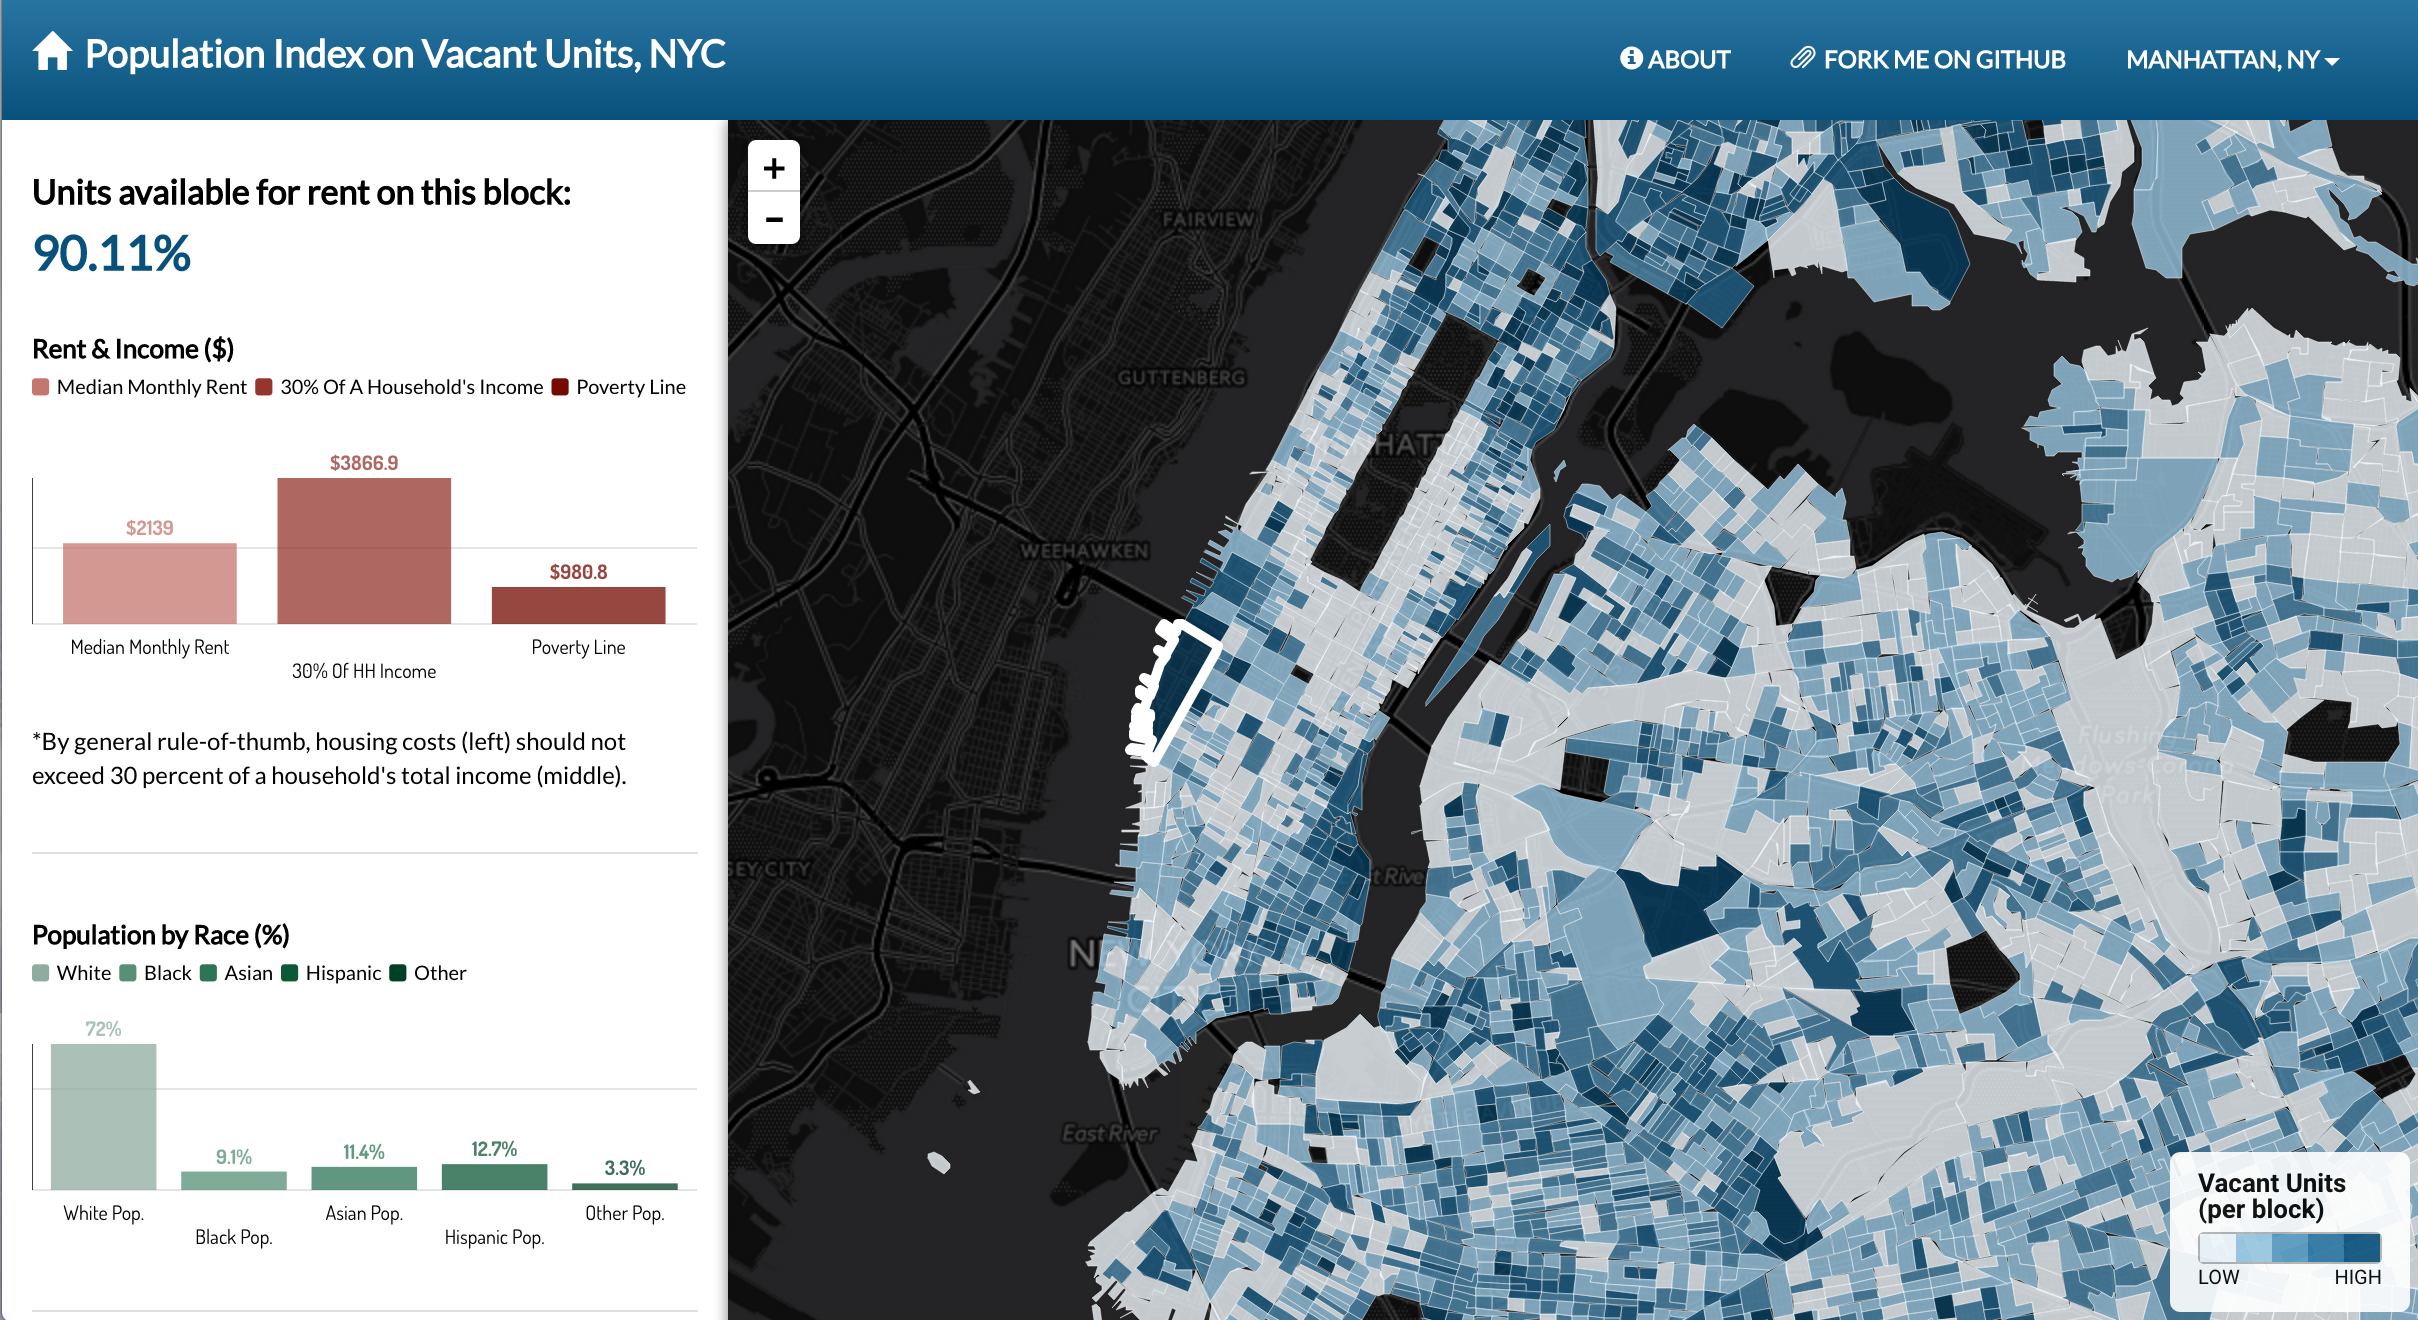
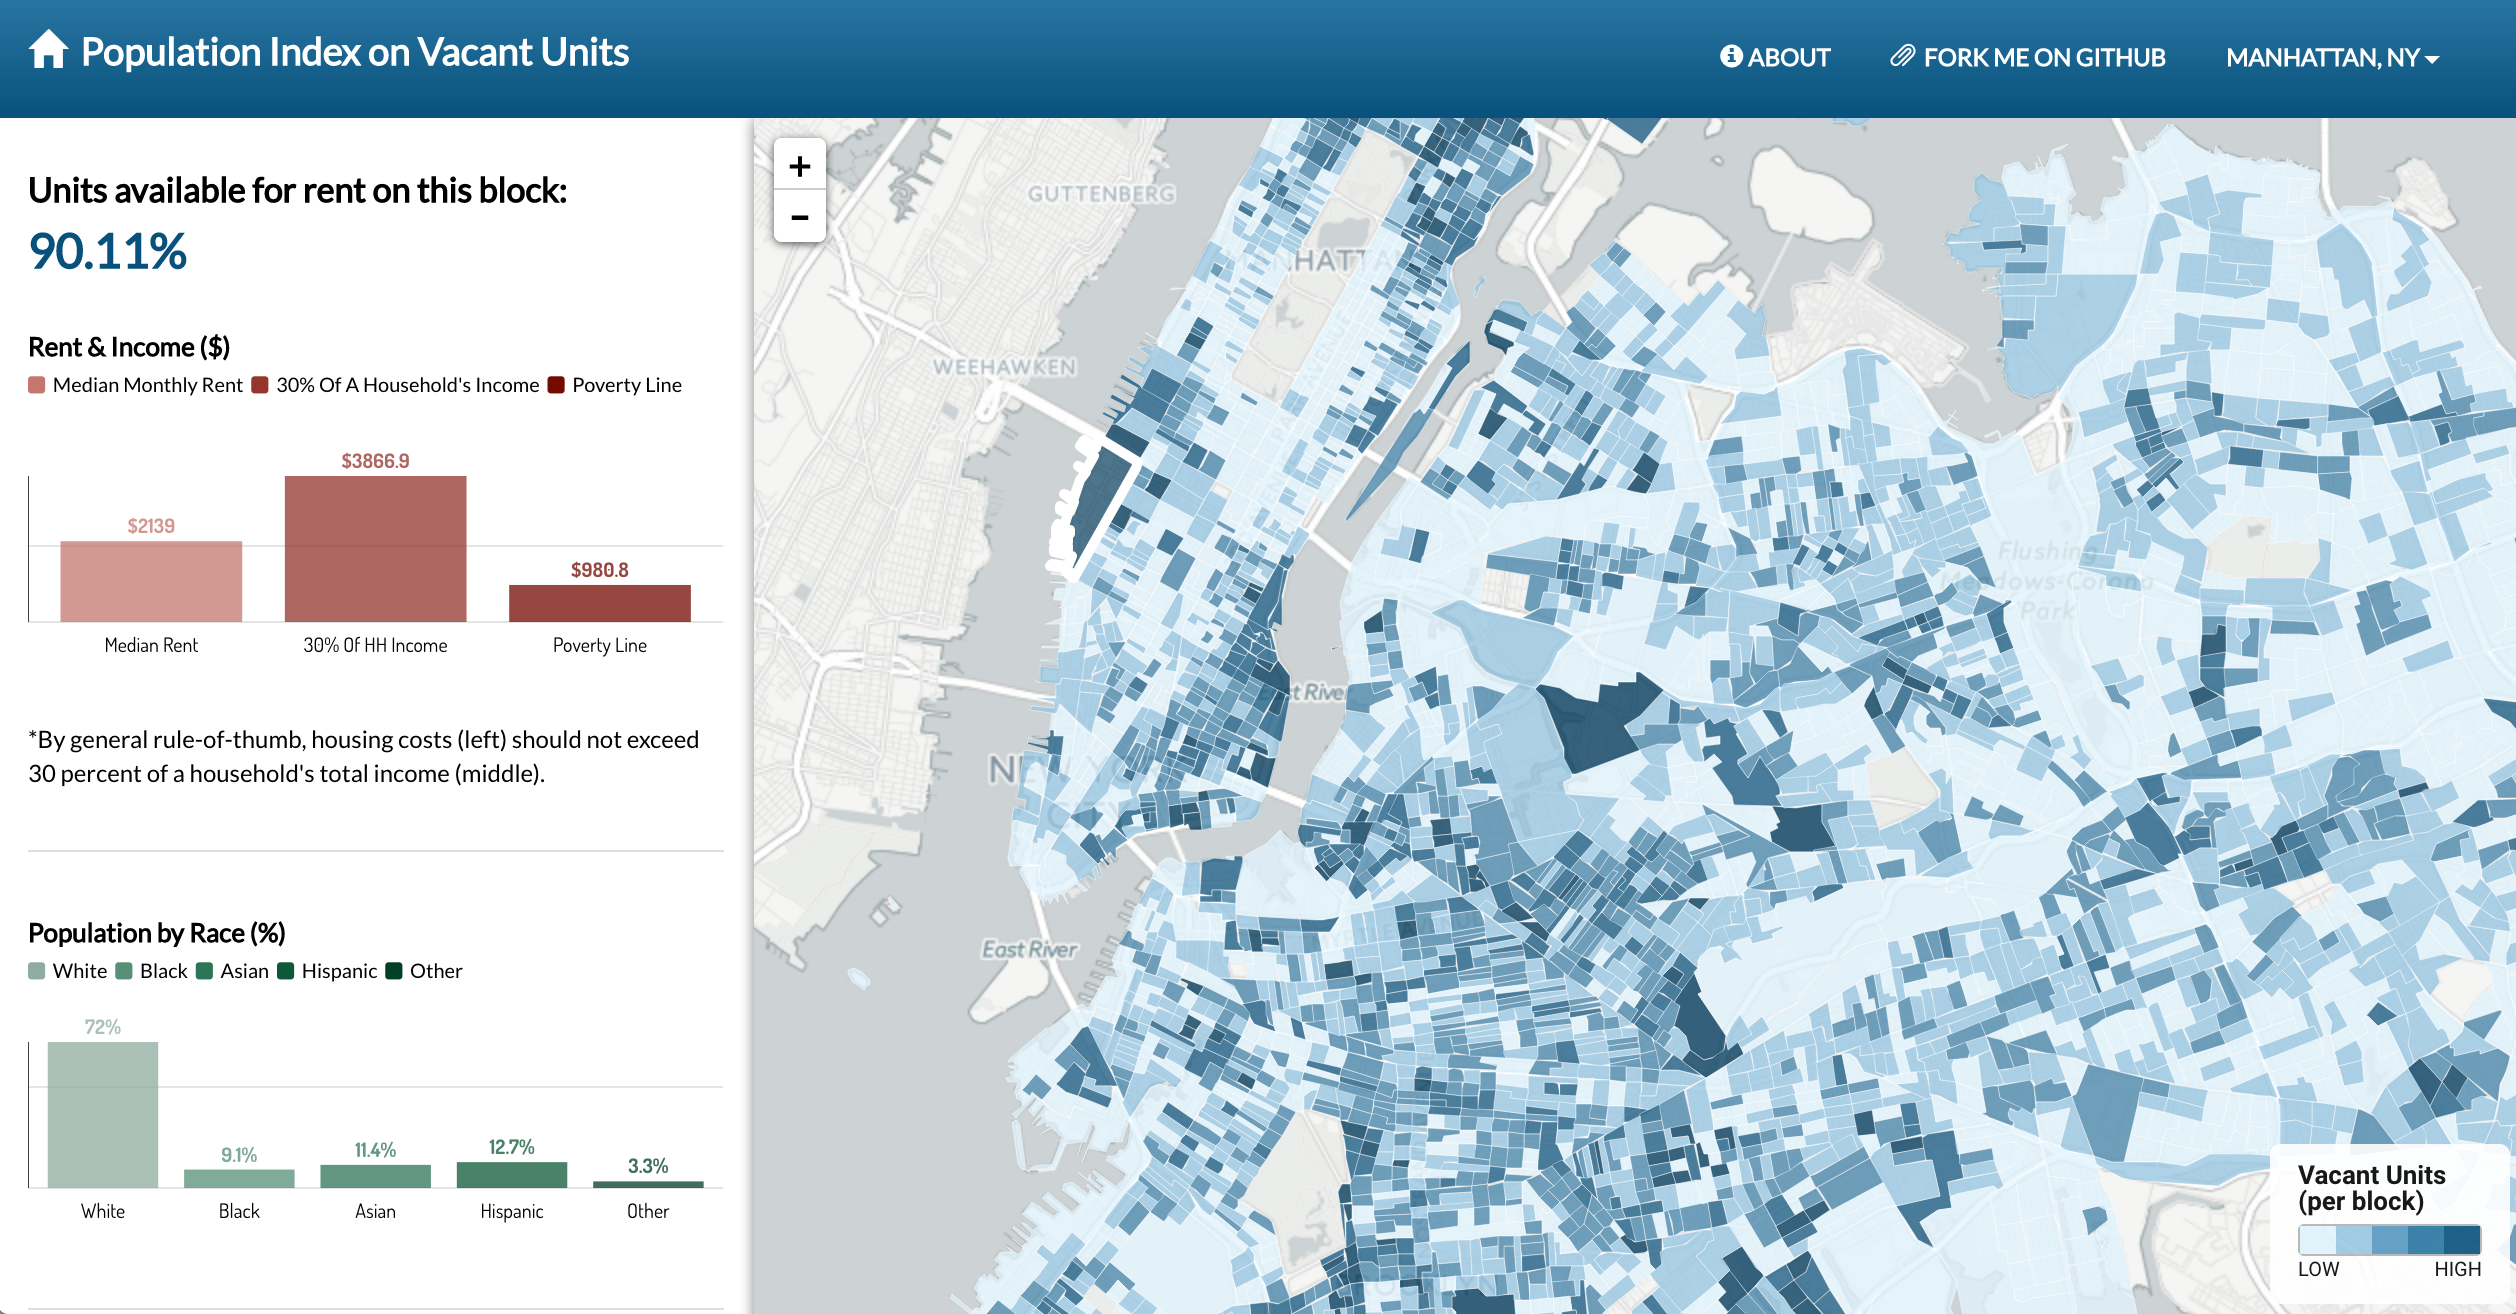
Png

diff --git a/js/script.js b/js/script.js
@@ -1,4 +1,4 @@
-var layer = L.tileLayer('http://{s}.basemaps.cartocdn.com/dark_all/{z}/{x}/{y}.png',{
+var layer = L.tileLayer('http://{s}.basemaps.cartocdn.com/light_all/{z}/{x}/{y}.png',{
   attribution: ''
 });
 
@@ -96,7 +96,7 @@ var panOptions = {
            // d > 35  ? '#E86464' :
            // d > 20  ? '#D97777' :
            // d > 10  ? '#EB9696' :
-                     '#F1F8FC' ;
+                     '#e1f3fd' ;
 
         // return d > 90 ? '#08517C' :
         //    d > 70  ? '#2975A2' :

diff --git a/index.html b/index.html
@@ -159,7 +159,7 @@
           <ul>
             <li class="graph">
               <div id="colors">
-                <div class="quartile" style="background-color:#F1F8FC"></div>
+                <div class="quartile" style="background-color:#e1f3fd"></div>
                 <div class="quartile" style="background-color:#9AC7E2"></div>
                 <div class="quartile" style="background-color:#5799C0"></div>
                 <div class="quartile" style="background-color:#2975A2"></div>

diff --git a/README.md b/README.md
@@ -1,8 +1,10 @@
-## [Vacant Units for Rent in NYC Demo](http://livenlulu.github.io/vacantunits/)
+## [Population Index on Vacant Units, NYC](http://livenlulu.github.io/vacantunits/)
 
 <kbd><a href="http://livenlulu.github.io/vacantunits/"><img src="data/vacantunits.png" style="max-width:100%; width: 600px;"/></a>
 </kbd>
 <br><br>
 Features: Bootstrap, Leaflet, NVD3
+
+Data: Vacant Units for Rent, 2015, Median Income, 2016, Population by Race, 2016, Population by Median Age, 2016
 
 Data source: Bureau of the Census 2010 Census PL 94 – 171 files for April 1, 2010, Population Estimates Program supplies various input files for age sex race as of 4/1/2010, ACS survey data (5 year version) has been used for a Summary type file and substitutes on an annual basis the previous decennial SF3 files.
